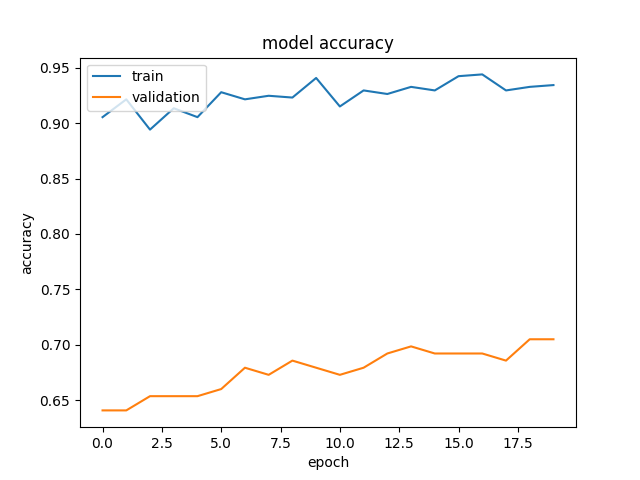
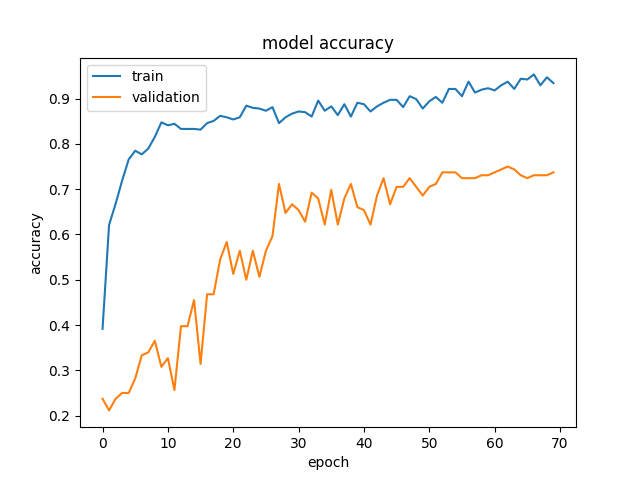
Added all images for models and match case for ac button

diff --git a/GUI/gui.py b/GUI/gui.py
@@ -10,6 +10,7 @@ import math
 import shutil
 import os
 from posixpath import join
+
 from audio_processing import Recorder
 
 from Config import Constants
@@ -43,7 +44,7 @@ class App(customtkinter.CTk):
     def __init__(self):
 
         super().__init__()
-        self.geometry(f"{900}x{580}")
+        self.geometry(f"{1000}x{580}")
         self.title("Music classifier")
         # configure grid layout (2x2)
         self.grid_columnconfigure(1, weight=1)
@@ -132,49 +133,50 @@ class App(customtkinter.CTk):
         # AUDIO CLASSIFICATION TAB:
         # create radiobutton frame for ac
         self.radiobutton_frame = customtkinter.CTkFrame(self.tabview.tab("Audio classification"))
-        self.radiobutton_frame.grid(row=0, column=0, padx=(20, 20), pady=(20, 20), sticky="nsew")
+        self.radiobutton_frame.grid(row=0, column=0, padx=(20, 20), pady=(20, 5), sticky="nsew")
         """# HORIZONTAL GRID FOR RADIO BUTTONS(MODEL CHOICE) AND MODEL DESCRIPTIONS
         self.ac_models_grid = customtkinter.CTkFrame(master=self.sidebar_frame, corner_radius=0,
                                                      fg_color='transparent')
         self.ac_models_grid.grid(row=0, column=0, sticky="nsew")"""
         # inserting radiobuttons
-        self.ac_model_selected = customtkinter.StringVar(value="EfficientNet")
+        self.ac_model_selected = customtkinter.StringVar(value="LSTM")
         self.label_radio_group = customtkinter.CTkLabel(master=self.radiobutton_frame, text="MODEL SELECTION")
-        self.label_radio_group.grid(row=0, column=0, columnspan=1, padx=10, pady=10, sticky="")
-        self.radio_button_effnet = customtkinter.CTkRadioButton(master=self.radiobutton_frame, text="EfficientNet",
-                                                           variable=self.ac_model_selected, value="EfficientNet", command=self.pressed_radiobutton)
-        self.radio_button_effnet.grid(row=1, column=0, pady=10, padx=20, sticky="w")
+        self.label_radio_group.grid(row=0, column=0, columnspan=1, padx=10, pady=20, sticky="")
         self.radio_button_lsmt = customtkinter.CTkRadioButton(master=self.radiobutton_frame, text="LSTM",
                                                                 variable=self.ac_model_selected, value="LSTM",
                                                                 command=self.pressed_radiobutton)
-        self.radio_button_lsmt.grid(row=2, column=0, pady=10, padx=20, sticky="w")
-        self.radio_button_cnn = customtkinter.CTkRadioButton(master=self.radiobutton_frame, text="CNN",
+        self.radio_button_lsmt.grid(row=1, column=0, pady=(5,10), padx=20, sticky="w")
+        self.radio_button_cnn = customtkinter.CTkRadioButton(master=self.radiobutton_frame, text="CNN - mfcc",
                                                            variable=self.ac_model_selected, value="CNN", command=self.pressed_radiobutton)
-        self.radio_button_cnn.grid(row=3, column=0, pady=10, padx=20, sticky="w")
-        self.radio_button_cnnspec = customtkinter.CTkRadioButton(master=self.radiobutton_frame, text="CNN (Spectrogram)",
+        self.radio_button_cnn.grid(row=2, column=0, pady=15, padx=20, sticky="w")
+        self.radio_button_cnnspec = customtkinter.CTkRadioButton(master=self.radiobutton_frame, text="CNN - spectrogram",
                                                            variable=self.ac_model_selected, value="CNN (Spectrogram)", command=self.pressed_radiobutton)
-        self.radio_button_cnnspec.grid(row=4, column=0, pady=(10, 20), padx=20, sticky="w")
+        self.radio_button_cnnspec.grid(row=3, column=0, pady=15, padx=20, sticky="w")
+        self.radio_button_effnet = customtkinter.CTkRadioButton(master=self.radiobutton_frame, text="EfficientNet (suggested)",
+                                                           variable=self.ac_model_selected, value="EfficientNet", command=self.pressed_radiobutton)
+        self.radio_button_effnet.grid(row=4, column=0, pady=(15,0), padx=20, sticky="w")
         # Label for model description
         self.ac_model_label = customtkinter.CTkLabel(master=self.tabview.tab("Audio classification"),
-                                                     text="94% training accuracy, 70% validation accuracy")
-        self.ac_model_label.grid(row=0, column=1, padx=5, pady=(5, 5), sticky="n")
+                                                     text="99% training accuracy, 83% validation accuracy")
+        self.ac_model_label.grid(row=0, column=1, padx=0, pady=(320, 5), sticky="n")
         # Images for models description
+        self.ac_images_size = (500, 300)
         self.ac_lsmt_image = customtkinter.CTkImage(dark_image=Image.open(
-            "images/ac_models/LSTM.png"), size=(400, 240))
+            "images/ac_models/LSTM.png"), size=self.ac_images_size)
         self.ac_cnn_image = customtkinter.CTkImage(dark_image=Image.open(
-            "images/ac_models/CNN.png"), size=(400, 240))
+            "images/ac_models/CNN.png"), size=self.ac_images_size)
         self.ac_cnnImage_image = customtkinter.CTkImage(dark_image=Image.open(
-            "images/ac_models/CNN_IMAGE.png"), size=(400, 240))
+            "images/ac_models/CNN_IMAGE.png"), size=self.ac_images_size)
         self.ac_effNet_image = customtkinter.CTkImage(dark_image=Image.open(
-            "images/ac_models/pretr_efficientnet_64bs.png"), size=(400, 240))
+            "images/ac_models/pretr_efficientnet_64bs.png"), size=self.ac_images_size)
         #displaying initial model image
         self.ac_model_image = customtkinter.CTkLabel(master=self.tabview.tab("Audio classification"),
-                                                     image=self.ac_effNet_image)
-        self.ac_model_image.grid(row=0, column=1, padx=(15, 5), pady=(35, 5), sticky="n")
+                                                     image=self.ac_lsmt_image)
+        self.ac_model_image.grid(row=0, column=1, padx=(0, 5), pady=(20, 5), sticky="n")
         #SONG CHOICE LABEL AND COMBOBOX 2
         self.ac_songs_label = customtkinter.CTkLabel(master=self.tabview.tab("Audio classification"),
                                                      text="SONG SELECTION")
-        self.ac_songs_label.grid(row=1, column=0, padx=(5, 5), pady=(35, 5))
+        self.ac_songs_label.grid(row=1, column=0, padx=(5, 5), pady=(25, 5))
         self.ac_songs_combobox = customtkinter.CTkComboBox(master=self.tabview.tab("Audio classification"),
                                                            state="readonly", values=self.audios_names_list)
         self.ac_songs_combobox.grid(row=2, column=0, padx=10, pady=0)
@@ -218,23 +220,41 @@ class App(customtkinter.CTk):
         # print(audios_paths_list)
 
     def pressed_radiobutton(self):
-        print(self.ac_model_selected.get())
         match self.ac_model_selected.get():
             case "EfficientNet":
-                self.ac_model_label.configure(text="94% training accuracy, 70% validation accuracy")
+                self.ac_model_label.configure(text="93% training accuracy, 74% validation accuracy")
                 self.ac_model_image.configure(image=self.ac_effNet_image)
             case "CNN":
-                self.ac_model_label.configure(text="Mfcc based")
+                self.ac_model_label.configure(text="97% training accuracy, 90% validation accuracy")
                 self.ac_model_image.configure(image=self.ac_cnn_image)
             case "CNN (Spectrogram)":
-                self.ac_model_label.configure(text="Spectrogram based based")
+                self.ac_model_label.configure(text="100% training accuracy, 65% validation accuracy")
                 self.ac_model_image.configure(image=self.ac_cnnImage_image)
             case "LSTM":
-                self.ac_model_label.configure(text="Mfcc based")
+                self.ac_model_label.configure(text="99% training accuracy, 83% validation accuracy")
                 self.ac_model_image.configure(image=self.ac_lsmt_image)
 
     def predict_genre(self):
-        print("c")
+        from audio_classification.mfcc_models import preprocess_dataset, testaudiomodel
+        model = self.ac_model_selected.get()
+        print(model)
+        match model:
+            case "EfficientNet":
+                print("effnet")
+            case "CNN" | "LSTM":
+                print("CNN/LSMT")
+                data = preprocess_dataset(Constants.INPUT_AUDIO)
+                if model == "CNN":
+                    result = testaudiomodel(data, os.path.abspath(join(os.getcwd(), '..', Constants.CNN_PATH)))
+                else:
+                    print(os.path.abspath(join(os.getcwd(), '..', Constants.LSMT_PATH)))
+                    result = testaudiomodel(data, "C:/Users/Utente/UNI/tesina_LAUREA/audio_classification/GTZAN_DB/models/GTZAN_LSTM.h5")
+                print(result)
+            case "CNN (Spectrogram)":
+                print("CNN IMAGE")
+            case _:
+                print("Unknown error")
+
 
     def handle_recording(self):
         if self.recording == 0:

diff --git a/audio_classification/efficientnet_model.py b/audio_classification/efficientnet_model.py
@@ -8,7 +8,7 @@ from sklearn.model_selection import train_test_split
 from sklearn.preprocessing import LabelEncoder
 
 from Config import Constants
-from mfcc_models import plot_hist
+from audio_classification import general
 
 genre_dict = {0: "Blues", 1: "Classical", 2: "Country", 3: "Disco", 4: "HipHop", 5: "Jazz",
               6: "Metal", 7: "Pop", 8: "Reggae", 9: "Rock"}
@@ -82,22 +82,23 @@ def create_pretrained_efficientnet_model(image_folder):
 
     epochs = 50  # @param {type: "slider", min:8, max:80}
     """ epochs frozen = 50, epochs unfrozen = 20 batch_size=64
-    loss: 0.1789 - accuracy: 0.9342 - val_loss: 1.2579 - val_accuracy: 0.7051"""
-    hist = model.fit(x_train, y_train,
+    loss: 0.2116 - accuracy: 0.9342 - val_loss: 1.1934 - val_accuracy: 0.7372"""
+    history = model.fit(x_train, y_train,
                      epochs=epochs,  # 100
                      validation_data=(x_val, y_val),
                      batch_size=64)
-    # plot_hist(hist)
 
     # 2 step
     unfreeze_model(model)
     epochs = 20
-    hist = model.fit(x_train, y_train,
+    history2 = model.fit(x_train, y_train,
                      epochs=epochs,  # 100
                      validation_data=(x_val, y_val),
                      batch_size=64)
-    plot_hist(hist)
-
+    #general.plot_hist(hist)
+    history.history["accuracy"] += history2.history["accuracy"]
+    history.history["val_accuracy"] += history2.history["val_accuracy"]
+    general.plot_hist(history)
     model.save("audio_classification/GTZAN_DB/models/GTZAN_EFFICIENTNETB0.h5")
     y_pred = model.predict(x_img)
     y_pred = np.argmax(y_pred, axis=1)

diff --git a/main.py b/main.py
@@ -1,4 +1,4 @@
-from audio_classification import spectrogram_models, mfcc_models
+from audio_classification import spectrogram_models, mfcc_models, efficientnet_model
 from audio_processing import source_separation, transcription
 from lyrics_classification.lda_models import pretrained_lda_model, scratch_lda_model
 from Config.Constants import *
@@ -32,7 +32,8 @@ if __name__ == '__main__':
     # data = mfcc_models.preprocess_dataset(GTZAN_AUDIO_PATH)
     # mfcc_models.createCNNmodel(data)
     # mfcc_models.testaudiomodel(data,LSMT_PATH)
-    spectrogram_models.createCNNimagemodel(GTZAN_IMAGE_PATH)
+    # spectrogram_models.createCNNimagemodel(GTZAN_IMAGE_PATH)
+    efficientnet_model.create_pretrained_efficientnet_model(GTZAN_IMAGE_PATH)
     # create_pretrained_efficientnet_model(Constants.GTZAN_IMAGE_PATH)
     # convert_to_wav(Constants.INPUT_AUDIO)
     # CREATING SPECTROGRAMS FROM .WAV DIR
